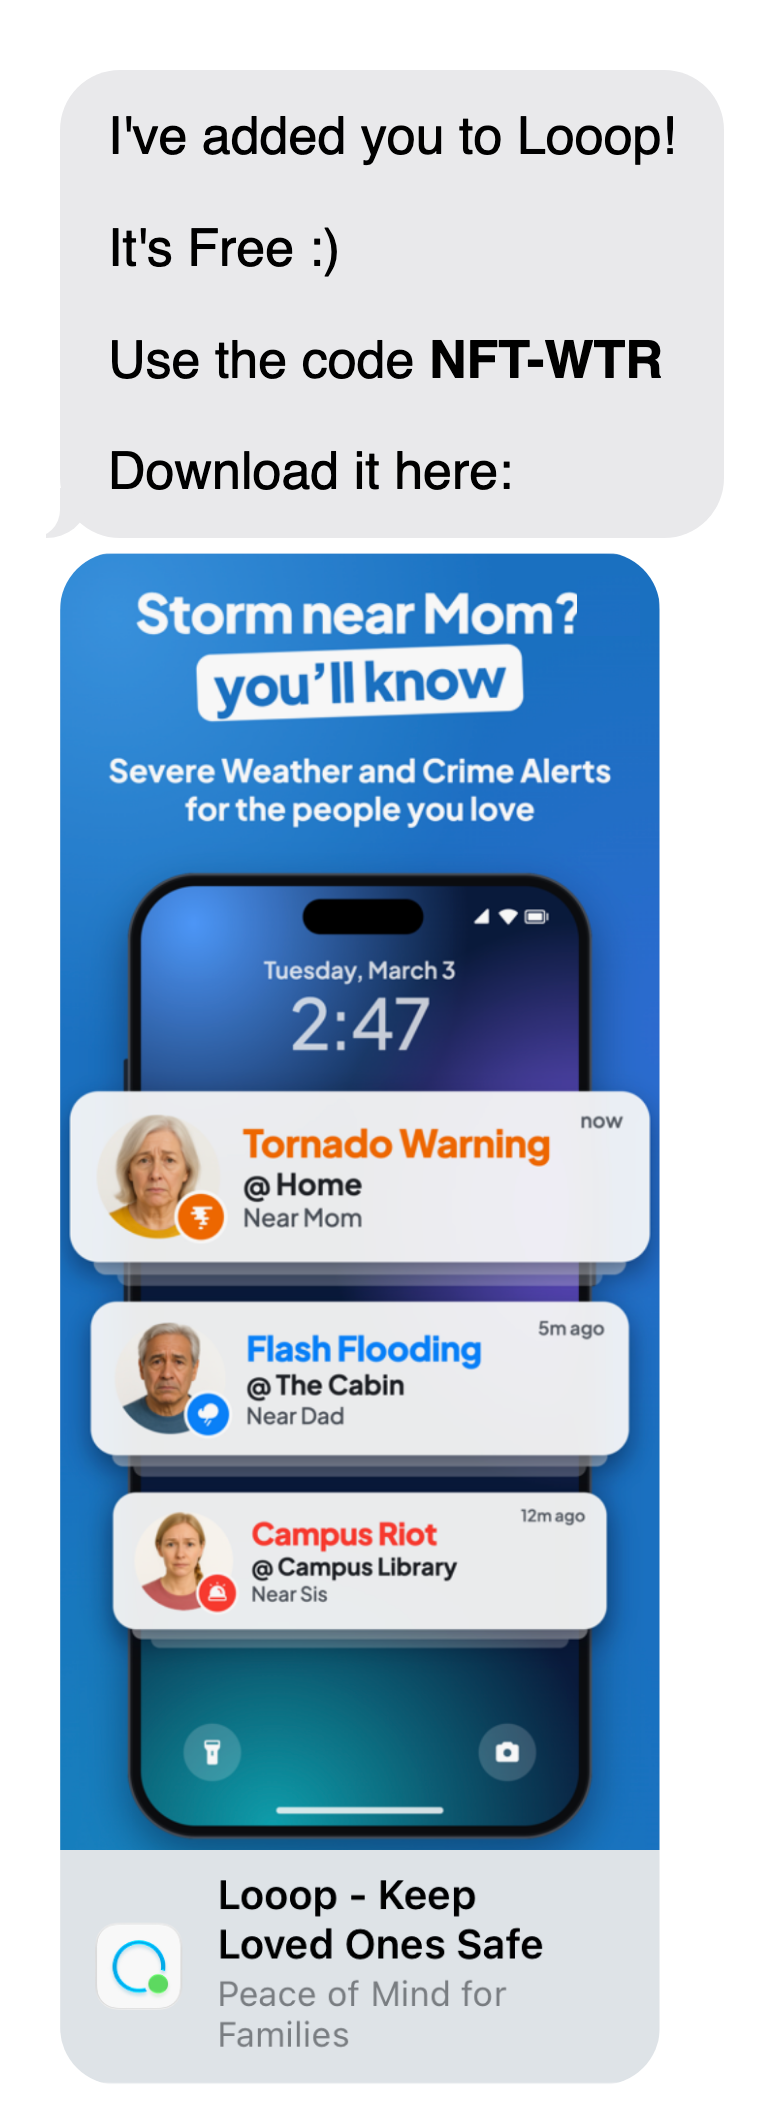
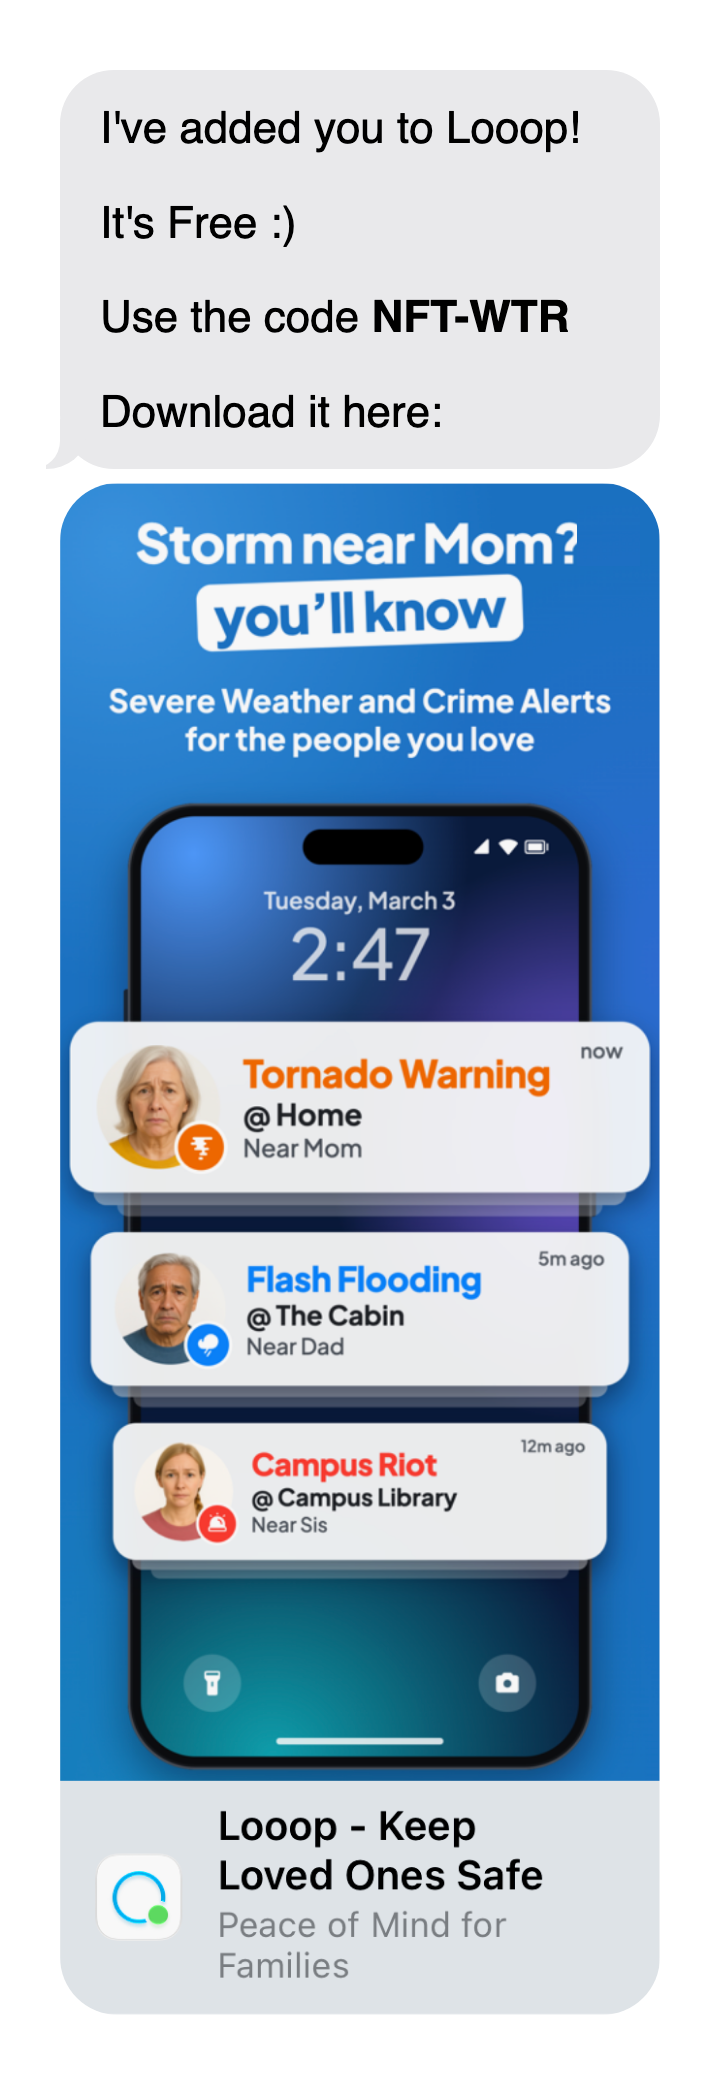
Make the /invite text bubble the same width as the App Store card

diff --git a/invite.html b/invite.html
@@ -22,7 +22,7 @@
 </head>
 <body>
   <a class="card" href="https://apps.apple.com/us/app/looop-keep-loved-ones-safe/id6760598111?ppid=95d304e6-c38c-4601-ad8b-23c0f87db892">
-    <img src="images/invite-messages.png" width="784" height="2110" alt="Text messages: I've added you to Looop! It's Free :) Use the code NFT-WTR. Download it here: Looop on the App Store">
+    <img src="images/invite-messages.png" width="720" height="2095" alt="Text messages: I've added you to Looop! It's Free :) Use the code NFT-WTR. Download it here: Looop on the App Store">
   </a>
   <p>Clicking the link leads to <a href="https://apps.apple.com/us/app/looop-keep-loved-ones-safe/id6760598111?ppid=95d304e6-c38c-4601-ad8b-23c0f87db892">Looop<br>on the App Store</a>.</p>
   <div class="spacer" aria-hidden="true"></div>

diff --git a/CHANGELOG.md b/CHANGELOG.md
@@ -2,6 +2,11 @@
 
 Changes to thelooopapp.com, newest first. This file is not published (see `_config.yml`).
 
+## 2026-11-22 12:50 CT
+
+### Pages
+- **`/invite` bubble matches the card width** (`images/invite-messages.png`, `invite.html`): the text bubble was narrower than the App Store card at the top of the image; both are now the same width, with the bubble text slightly smaller to fit.
+
 ## 2026-11-22 12:35 CT
 
 ### Pages
